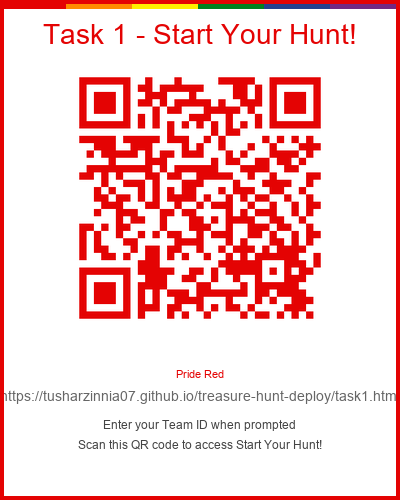
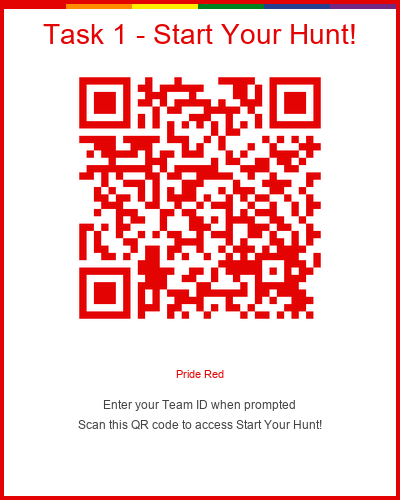
final v

Changed region(s): [[0.0, 0.78, 0.99, 0.9]]

diff --git a/task1.html b/task1.html
@@ -4,7 +4,7 @@
     <meta charset="UTF-8">
     <meta name="viewport" content="width=device-width, initial-scale=1.0">
     <title>Task 1 - Pride Treasure Hunt</title>
-    <link rel="stylesheet" href="style.css?v=4">
+    <link rel="stylesheet" href="style.css?v=8">
     <link href="https://fonts.googleapis.com/css2?family=Poppins:wght@300;400;600;700&display=swap" rel="stylesheet">
     
     <!-- 🔥 Firebase SDK -->
@@ -52,10 +52,10 @@
                 <div class="clue-box">
                     <p>"Pride is built on the joy of coming together. 🌈 <br>
                         Your first color is ❤ RED — representing life. <br>
-                        Where in our office do people gather not just to eat, but to laugh, recharge, and truly connect?"</p>
+                        Where in our office do people gather not just to eat, but to laugh, recharge, and truly connect?"</p> 
                 </div>
             </div>
-            
+
             <div class="task-code-section">
                 <h3>📝 Task Code to Remember:</h3>
                 <div class="task-code">TC441</div>

diff --git a/style.css b/style.css
@@ -750,6 +750,16 @@ table tr:hover, .leaderboard-table tr:hover {
     overflow: hidden;
 }
 
+.team-setup-section h2 {
+    color: var(--text-primary);
+    margin-bottom: 20px;
+}
+
+.setup-box p {
+    color: var(--text-primary);
+    line-height: 1.6;
+}
+
 .team-setup-section::before {
     content: '';
     position: absolute;
@@ -774,6 +784,8 @@ table tr:hover, .leaderboard-table tr:hover {
     font-size: 16px;
     text-align: center;
     text-transform: uppercase;
+    color: var(--text-primary);
+    background: #fff;
 }
 
 .team-input-group input:focus {
@@ -782,7 +794,7 @@ table tr:hover, .leaderboard-table tr:hover {
     box-shadow: 0 0 0 3px rgba(201, 58, 168, 0.18);
 }
 
-.help-text { color: var(--text-muted); font-size: 14px; margin-top: 10px; }
+.help-text { color: var(--text-secondary); font-size: 14px; margin-top: 10px; }
 
 .team-welcome {
     background: var(--surface-tint);

diff --git a/generate_qr_codes.py b/generate_qr_codes.py
@@ -52,12 +52,10 @@ def create_qr_code_with_label(url, label, filename, pride_color):
 
     try:
         title_font = ImageFont.truetype("arial.ttf", 28)
-        url_font = ImageFont.truetype("arial.ttf", 14)
         instruction_font = ImageFont.truetype("arial.ttf", 12)
         badge_font = ImageFont.truetype("arial.ttf", 11)
     except OSError:
         title_font = ImageFont.load_default()
-        url_font = ImageFont.load_default()
         instruction_font = ImageFont.load_default()
         badge_font = ImageFont.load_default()
 
@@ -73,24 +71,18 @@ def create_qr_code_with_label(url, label, filename, pride_color):
     badge_x = (img_width - badge_width) // 2
     draw.text((badge_x, 368), badge_text, fill=pride_color["hex"], font=badge_font)
 
-    url_text = url
-    url_bbox = draw.textbbox((0, 0), url_text, font=url_font)
-    url_width = url_bbox[2] - url_bbox[0]
-    url_x = (img_width - url_width) // 2
-    draw.text((url_x, 388), url_text, fill="#666666", font=url_font)
-
     instruction_text = "Enter your Team ID when prompted"
     instruction_bbox = draw.textbbox((0, 0), instruction_text, font=instruction_font)
     instruction_width = instruction_bbox[2] - instruction_bbox[0]
     instruction_x = (img_width - instruction_width) // 2
-    draw.text((instruction_x, 418), instruction_text, fill="#444444", font=instruction_font)
+    draw.text((instruction_x, 398), instruction_text, fill="#444444", font=instruction_font)
 
     step_label = label.split(" - ")[1] if " - " in label else label
     step_text = f"Scan this QR code to access {step_label}"
     step_bbox = draw.textbbox((0, 0), step_text, font=instruction_font)
     step_width = step_bbox[2] - step_bbox[0]
     step_x = (img_width - step_width) // 2
-    draw.text((step_x, 438), step_text, fill="#444444", font=instruction_font)
+    draw.text((step_x, 418), step_text, fill="#444444", font=instruction_font)
 
     draw.rectangle(
         [0, 0, img_width - 1, img_height - 1],
